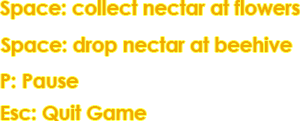
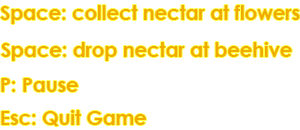
fixed wrong pic in help screen

diff --git a/src/Engine/Examples/BeeTheGame/Main.cs b/src/Engine/Examples/BeeTheGame/Main.cs
@@ -674,11 +674,11 @@ namespace Examples.BeeTheGame
             {
                 if (_yAngle + 0.001f > _twoPi)
                 {
-                    _yAngle = (_yAngle + 0.002f) - _twoPi;
+                    _yAngle = (_yAngle + 0.02f) - _twoPi;
                 }
                 else
                 {
-                    _yAngle = (_yAngle + 0.002f);
+                    _yAngle = (_yAngle + 0.02f);
                 }
             }
             else
@@ -740,11 +740,11 @@ namespace Examples.BeeTheGame
             {
                 if (_yAngle - 0.001f < 0)
                 {
-                    _yAngle = _twoPi - (_yAngle - 0.002f);
+                    _yAngle = _twoPi - (_yAngle - 0.02f);
                 }
                 else
                 {
-                    _yAngle = (_yAngle - 0.002f);
+                    _yAngle = (_yAngle - 0.02f);
                 }
             }
             else

diff --git a/src/Engine/Examples/BeeTheGame/GUIRender.cs b/src/Engine/Examples/BeeTheGame/GUIRender.cs
@@ -61,7 +61,7 @@ namespace Examples.BeeTheGame
 
             _guiImageHelpButton = new GUIImage("Assets/helpButton.png", 10, 10, 2, 41, 50);
             _guiImageHelpOne = new GUIImage("Assets/helpOne.png", 100, 10, 1, 300, 129);
-            _guiImageHelpTwo = new GUIImage("Assets/helpTwo.png", 950, 20, 1, 300, 121);
+            _guiImageHelpTwo = new GUIImage("Assets/helpTwo.png", 950, 20, 1, 300, 130);
 
             //Text
             _guiFontArial24 = RC.LoadFont("Assets/arial.ttf", 16);
